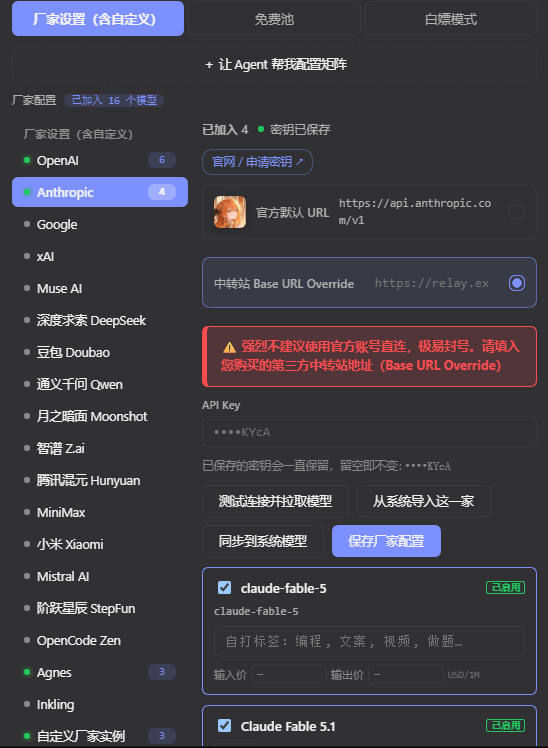
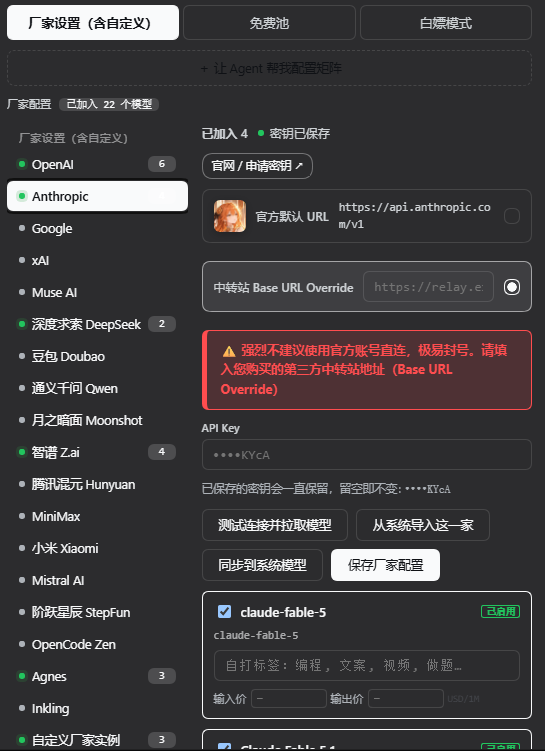
docs: README 换成三张实拍截图（整窗 + 悬浮面板 + 管家设置）
- docs/images/app.png：装进 DSH 后的整窗，右下角悬浮球显示今日已省
- docs/images/panel.png：成本看板页签，路由日志里有真实条目
- docs/images/settings.png：厂家配置页

diff --git a/README.md b/README.md
@@ -9,11 +9,15 @@
 **版本：** 1.1.0 | **适用：** DeepSeek Harness ≥ 0.2.1-rc.3 | **测试：** 505 条
 
 <p align="center">
-  <img src="docs/images/panel.png" width="560" alt="悬浮面板：顶部只显示当前档位，页签是成本看板 / 模型矩阵 / 路由日志 / 代理协作">
+  <img src="docs/images/app.png" width="820" alt="装进 DSH 之后：右下角是管家悬浮球，显示当前档位与今日已省">
+</p>
+
+<p align="center">
+  <img src="docs/images/panel.png" width="420" alt="悬浮面板：成本看板 / 模型矩阵 / 路由日志 / 代理协作四个页签">
   <img src="docs/images/settings.png" width="300" alt="管家设置：厂家配置、模型勾选、输入输出价目">
 </p>
 
-*装进 DSH 之后的样子：右下角悬浮球点开是四个页签（左）；厂家、密钥、价目与擅长标签在 DSH 设置页的「管家设置」里维护（右）。*
+*装进 DSH 之后的实际样子：右下角一颗悬浮球显示当前档位与「今日已省」（上）；点开是四个页签，顶部只写「当前为哪一档」（左下）；厂家、密钥、价目与擅长标签在 DSH 设置页的「管家设置」里维护（右下）。*
 
 ---
 
